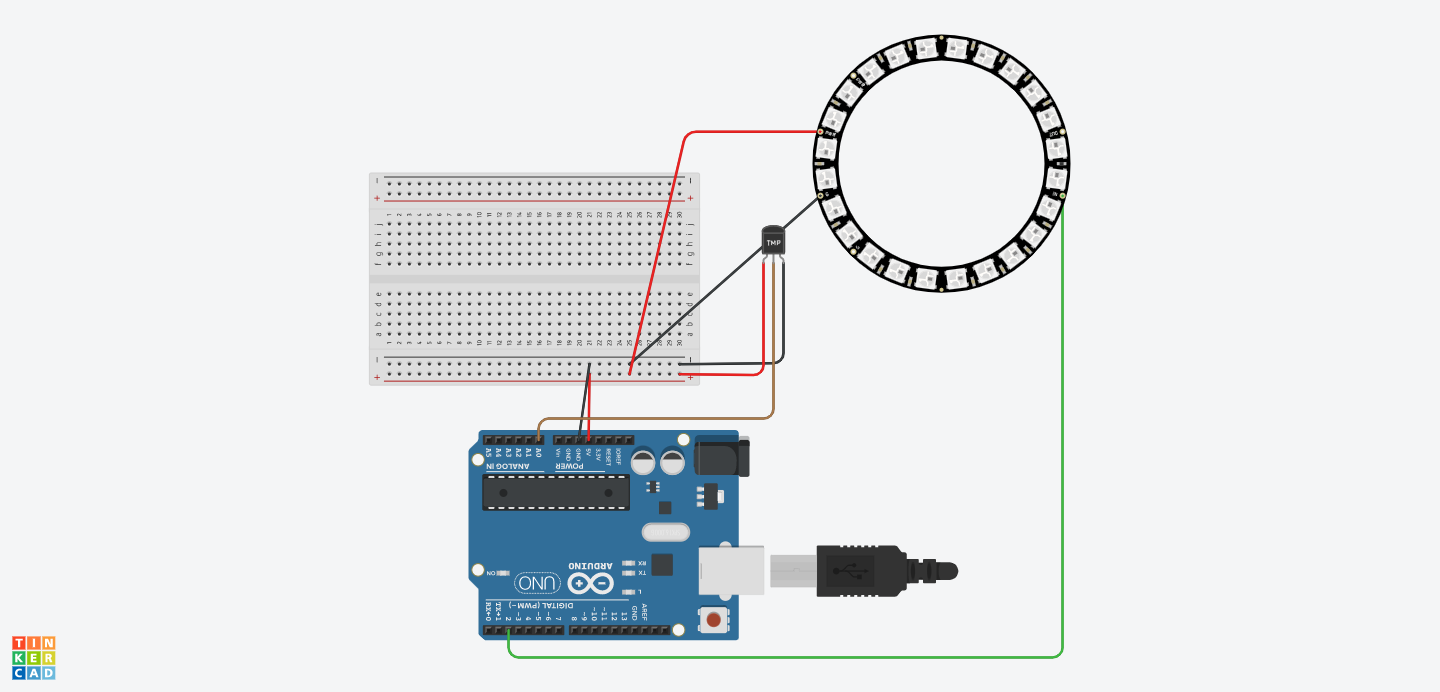
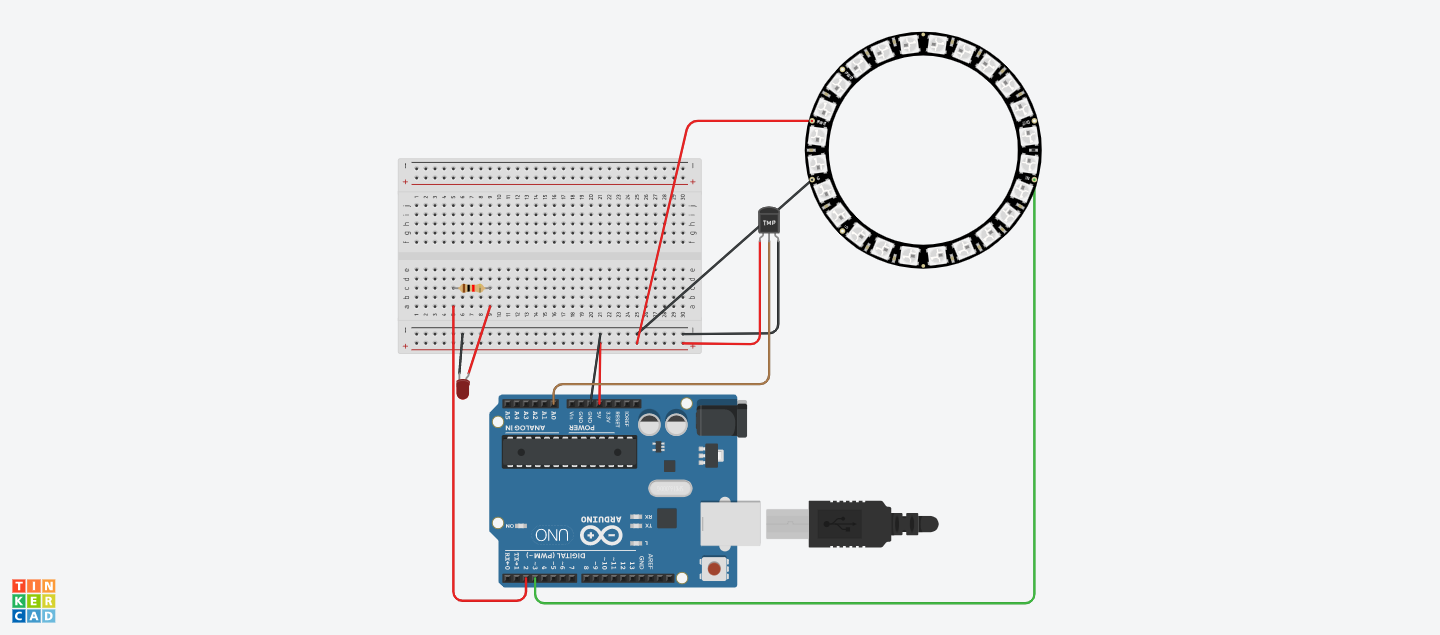
added led to exercise 3 WP4

diff --git a/WP4/Exercise 3/exercise3.c b/WP4/Exercise 3/exercise3.c
@@ -3,16 +3,17 @@
 
 //variable declaration
 int sensorAnalog = 0; //for analog reading
-int neoPin = 2; //neopixel digital pin
+int neoPin = 3; //neopixel digital pin
 int pixelNum = 24; //number of pixels
 int maxled; //maxled variable initialization
-
+int ledPin = 2; 
 //neopixel object declaration
 Adafruit_NeoPixel neopixel = Adafruit_NeoPixel(pixelNum, neoPin, NEO_GRB + NEO_KHZ800);
 
 void setup()
 {
   Serial.begin(9600); //serial begin
+  pinMode (ledPin, OUTPUT); //ledPin output
   neopixel.begin(); //neopixel start
   neopixel.setBrightness(255); //set neopixel to max brightness
   neopixel.show(); //neopixel show
@@ -60,10 +61,11 @@ void loop()
       else{
         neopixel.setPixelColor(i, red);
       }
-    } else { //else close the pixel
-      neopixel.setPixelColor(i,0,0,0);
-    }
-    }
-  	delay(100); //delay by 100 ms
-    neopixel.show(); //neopixel show
+    } else {
+      neopixel.setPixelColor(i,0,0,0); //turn off the neopixel
+      digitalWrite(ledPin, HIGH); //turn on the red led
+   	}
+  }
+  delay(100); //delay by 100 ms
+  neopixel.show(); //neopixel show
 }
